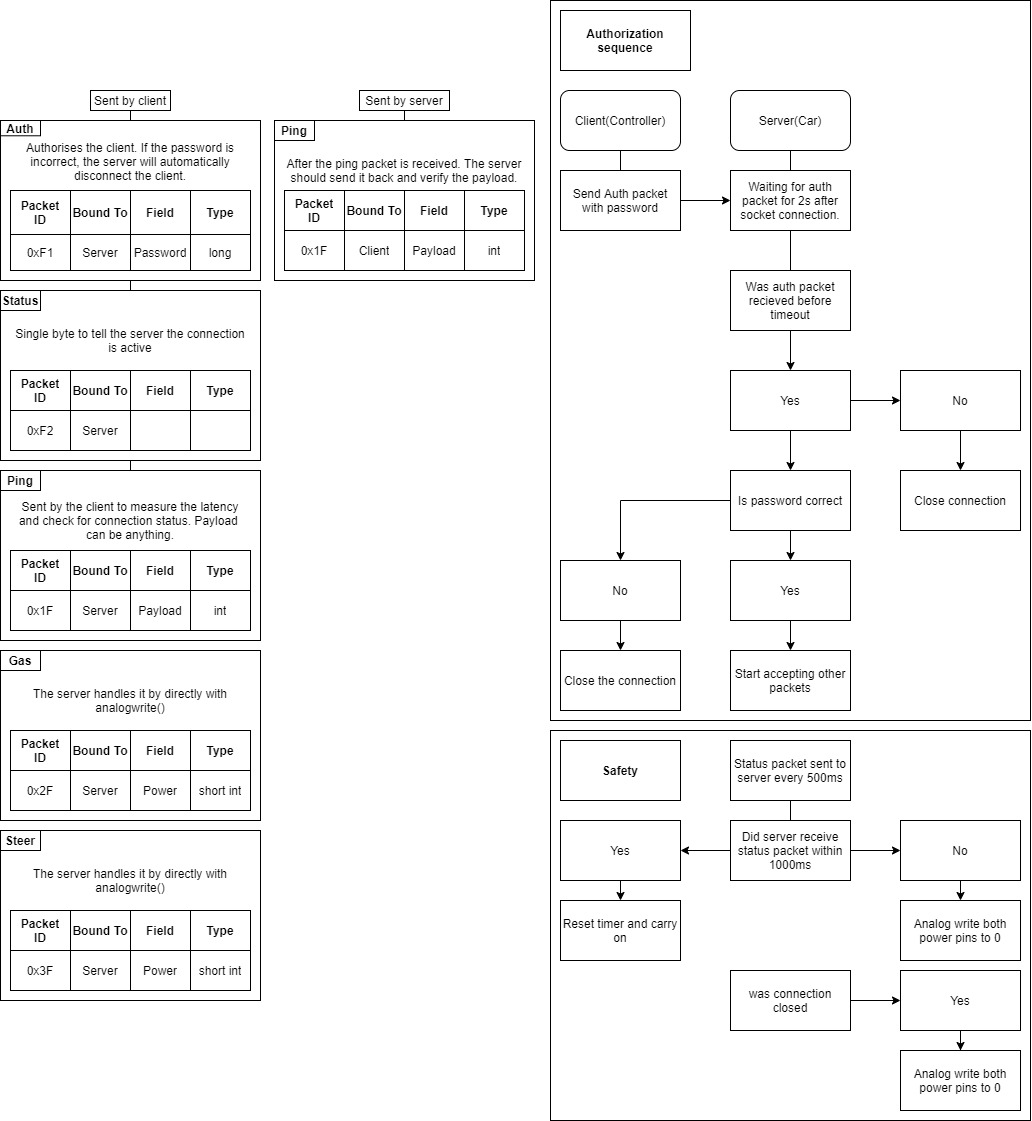
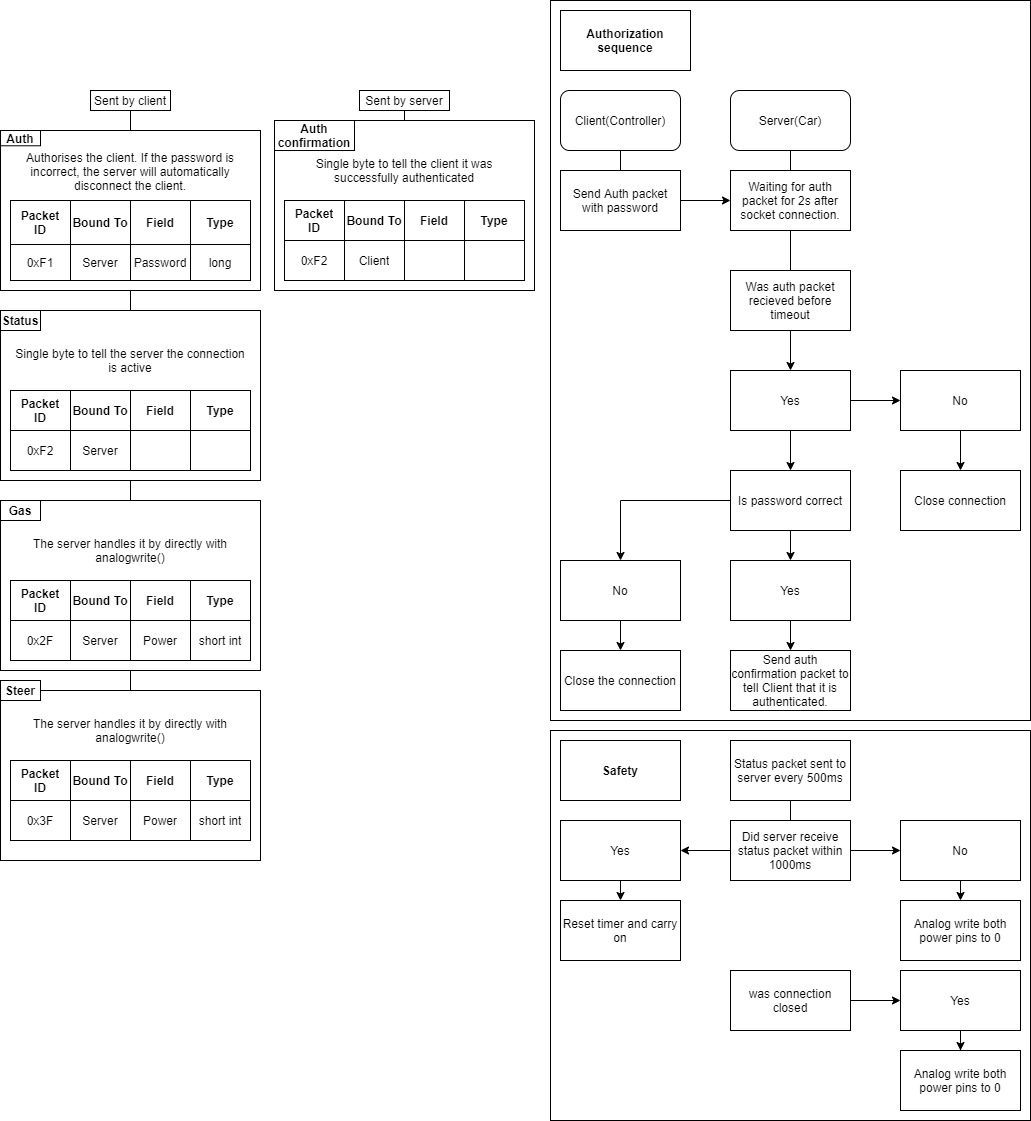
Can now drive car from controller

diff --git a/WifiCar/Client/src/App.cpp b/WifiCar/Client/src/App.cpp
@@ -3,13 +3,14 @@
 #define WIN32_LEAN_AND_MEAN
 #include <Xinput.h>
 
-
 #include "Timer.h"
 
 #include <stdio.h>
 
+#include "../../ESP8266/src/passwords.h" // Includes secret authentication password
+
 App::App(std::string adress, int port)
-	: m_Adress(adress), m_Port(port), m_Closed(true), m_Connected(false), m_ControllerConnected(false), m_ControllerPort(-1), m_RStickDeadZoneX(2048), m_ServerHandle(INVALID_SOCKET)
+	: m_Adress(adress), m_Port(port), m_Closed(true), m_Connected(false), m_Authenticated(false), m_ControllerConnected(false), m_ControllerPort(-1), m_RStickDeadZoneX(2048), m_ServerHandle(INVALID_SOCKET)
 {}
 
 App::~App()
@@ -21,7 +22,10 @@ void App::Run()
 	
 	Init();
 	m_Connected = Connect();
-	if (m_Connected) printf("Connected to esp8266!");
+	if (m_Connected) {
+		printf("Connected to esp8266! Authenticating...\n");
+		SendPacket(AuthPacket(g_Password));
+	}
 	Timer t;
 	t.Start();
 	float elapsed = 0.0f;
@@ -52,7 +56,46 @@ void App::Run()
 
 void App::Update(float elapsed)
 {
-	static float sixtyHZ = 0.0f;
+	static uchar packetBuffer[PACKET_LENGTH];
+	if (!m_Authenticated)
+	{
+		// Have to put recv on another thread to be able to receive ping packet later.
+		int result = recv(m_ServerHandle, (char*)packetBuffer, PACKET_LENGTH, 0);
+		if (result > 0)
+		{
+			if (m_Authenticated)
+			{
+				if (packetBuffer[0] == 0xF1)
+				{
+					printf("Ping\n");
+				}
+			}
+			else
+			{
+				if (packetBuffer[0] == 0xF2)
+				{
+					printf("Client authenticated!\n");
+					m_Authenticated = true;
+				}
+			}
+		}
+		else if(result == 0)
+		{
+			printf("Connection closed.\n");
+			m_Authenticated = false;
+			m_Connected = false;
+		}
+		else
+		{
+			printf("Error: %d\n", WSAGetLastError());
+			m_Authenticated = false;
+			m_Connected = false;
+		}
+	}
+
+	static bool flatSteer = false; // When there in no input, don't send empty packets.
+	static bool flatGas = false;
+	static float tenHZ = 0.0f;
 	if (m_ControllerConnected)
 	{
 		XINPUT_STATE newState;
@@ -62,18 +105,32 @@ void App::Update(float elapsed)
 		{
 			newState.Gamepad.sThumbRX = 0;
 		}
+		static short gasPower = 0;
+		gasPower = newState.Gamepad.bRightTrigger - newState.Gamepad.bLeftTrigger;
 
-		sixtyHZ += elapsed;
-		if (sixtyHZ > 1.0f / 60.0f) // 60hz
+		tenHZ += elapsed;
+		if (tenHZ > 1.0f / 10.0f) // 60hz
 		{
-			sixtyHZ = 0.0f;
-			//std::cout << std::to_string(newState.Gamepad.bRightTrigger) << ", " << std::to_string(newState.Gamepad.sThumbRX) << std::endl;
+			tenHZ = 0.0f;
+			if (newState.Gamepad.sThumbRX != 0) flatSteer = false;
+			if (!flatSteer)
+			{
+				SendPacket(SteerPacket(newState.Gamepad.sThumbRX / 32));
+				if (newState.Gamepad.sThumbRX == 0) flatSteer = true;
+			}
+
+			if (gasPower != 0) flatGas = false;
+			if (!flatGas)
+			{
+				SendPacket(GasPacket(gasPower * 4));
+				if (gasPower == 0) flatGas = true;
+			}
 		}
 	}
 
 	static float halfSecond = 0.0f;
 	halfSecond += elapsed;
-	if (halfSecond > 0.5f) // Every 0.5s check for new controllers or disconnections
+	if (halfSecond > 0.5f) // Every 0.5s check for new controllers and send status packet
 	{
 		halfSecond = 0.0f;
 		for (int i = 0; i < XUSER_MAX_COUNT; i++)
@@ -91,6 +148,8 @@ void App::Update(float elapsed)
 				m_ControllerPort = -1;
 			}
 		}
+
+		SendPacket(); // Status Packet
 	}
 }
 
@@ -171,4 +230,43 @@ bool App::GetIpPort()
 	m_Port = port;
 	delete[] ip;
 	return true;
+}
+
+void App::SendPacket(AuthPacket auth) const
+{
+	static uchar packet[9] = { 0xF1 }; // Pre allocated packet and static because of optimization
+
+	memcpy(&packet[1], (char*)&auth.m_Password, 8);
+	send(m_ServerHandle, (char*)packet, 9, 0);
+	
+}
+
+void App::SendPacket(StatusPacket) const
+{
+	static const char packet = 0xF2;
+	send(m_ServerHandle, (char*)packet, 1, 0);
+}
+
+void App::SendPacket(PingPacket ping) const
+{
+	static uchar packet[5] = { 0x1F }; // Pre allocated packet and static because of optimization
+
+	memcpy(&packet[1], (char*)&ping.m_Payload, 4);
+	send(m_ServerHandle, (char*)packet, 5, 0);
+}
+
+void App::SendPacket(GasPacket gas) const
+{
+	static uchar packet[3] = { 0x2F }; // Pre allocated packet and static because of optimization
+
+	memcpy(&packet[1], (char*)&gas.m_Power, 2);
+	send(m_ServerHandle, (char*)packet, 3, 0);
+}
+
+void App::SendPacket(SteerPacket steer) const
+{
+	static uchar packet[3] = { 0x3F }; // Pre allocated packet and static because of optimization
+
+	memcpy(&packet[1], (char*)&steer.m_Power, 2);
+	send(m_ServerHandle, (char*)packet, 3, 0);
 }

diff --git a/WifiCar/Client/src/App.h b/WifiCar/Client/src/App.h
@@ -4,6 +4,44 @@
 #include <ws2tcpip.h>
 #include <string>
 
+using uchar = unsigned char;
+using uint = unsigned int;
+using uint64 = unsigned long long int;
+
+#define PACKET_LENGTH 512
+
+struct StatusPacket
+{};
+
+struct AuthPacket
+{
+	AuthPacket(uint64 password)
+		: m_Password(password)
+	{}
+	uint64 m_Password;
+};
+
+struct PingPacket
+{
+	int m_Payload;
+};
+
+struct GasPacket
+{
+	GasPacket(short power)
+		: m_Power(power)
+	{}
+	short m_Power;
+};
+
+struct SteerPacket
+{
+	SteerPacket(short power)
+		: m_Power(power)
+	{}
+	short m_Power;
+};
+
 class App
 {
 public:
@@ -20,6 +58,7 @@ private:
 
 	bool m_Closed;
 	bool m_Connected;
+	bool m_Authenticated;
 
 	SOCKET m_ServerHandle;
 	void Update(float elapsed);
@@ -31,4 +70,11 @@ private:
 
 	bool m_ControllerConnected;
 	int m_ControllerPort;
+
+	// Sending Packets
+	void SendPacket(AuthPacket auth) const;
+	void SendPacket(StatusPacket status = {}) const;
+	void SendPacket(PingPacket auth) const;
+	void SendPacket(GasPacket auth) const;
+	void SendPacket(SteerPacket auth) const;
 };
